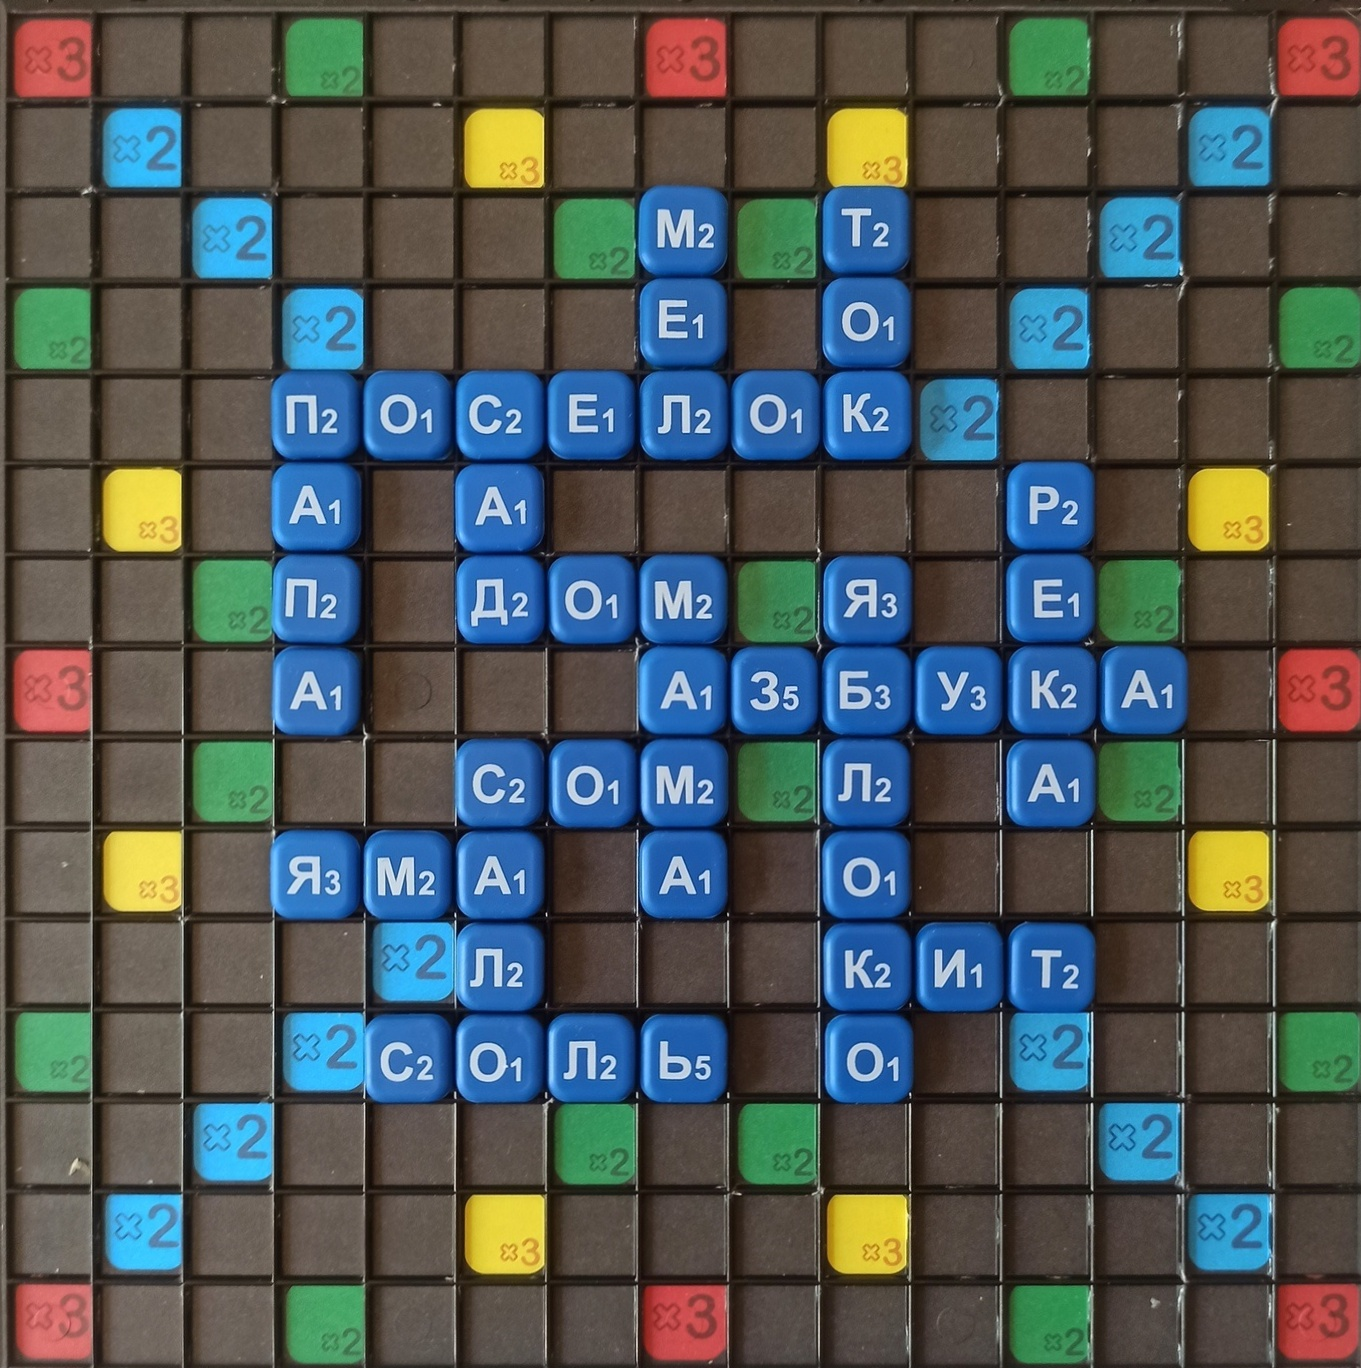
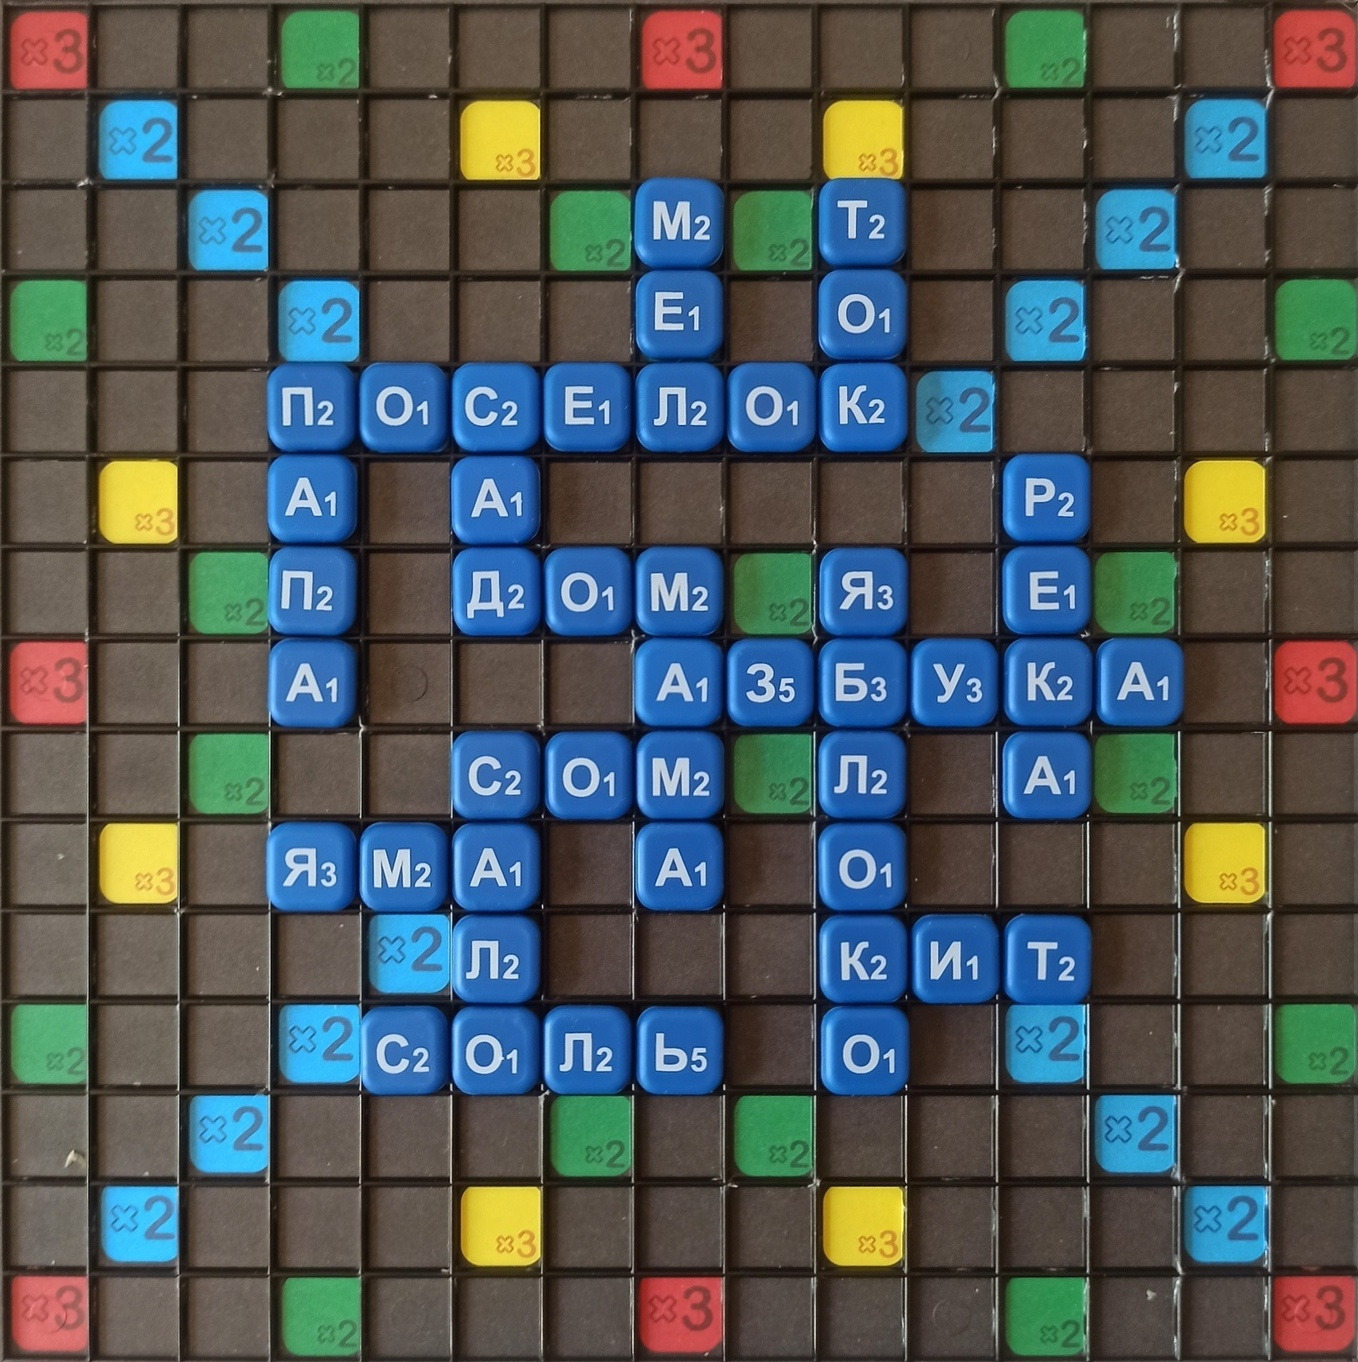
app update

Changed region(s): [[0.0, 0.0, 1.0, 1.0]]

diff --git a/application/app.py b/application/app.py
@@ -26,7 +26,7 @@ class ScrabbleApplication(QWidget):
     _board = None
 
     # размеры окна и виджетов
-    _width = 540  # 450 px
+    _width = 450  # 450 px
     _height = int(_width * 1.7777777)  # 800px
     _chip_size = _width // 9  # размер кнопки с буквой в px
     _row_size = _chip_size * (_width // _chip_size)  # длина линии кнопок в px
@@ -51,7 +51,7 @@ class ScrabbleApplication(QWidget):
     _start_button = None  # кнопка по нажатии запускает весь алгоритм
 
     # labels
-    _chosen_chips_label = None
+    _chosen_chips_labels = None
     _chosen_chips_label_text = 'Выбранные\nфишки:'
 
     _msg_label = None
@@ -70,6 +70,7 @@ class ScrabbleApplication(QWidget):
     _board_img = None  # обрезанное изображение доски
 
     _hint_labels = []  # фишки подсказок, отображаемые на экране
+    _is_hint_showing = False  # получена ли подсказка
 
     def __init__(self):
         """
@@ -171,7 +172,7 @@ class ScrabbleApplication(QWidget):
         label = QLabel(self)
         label.setText(self._chosen_chips_label_text)
         label.setAlignment(Qt.AlignCenter)
-        self._chosen_chips_label = label
+        self._chosen_chips_labels = label
 
         # msg label
         label = QLabel(self)
@@ -241,18 +242,27 @@ class ScrabbleApplication(QWidget):
         Обновление всех виджетов
         """
 
+        # повторная инициализация словарей
+        self.init_dicts()
         # обновляем кнопки
         self.update_buttons()
         # сбрасываем msg
         self._msg_label.setText(self._msg_image_uploaded)
 
-        # сбрасываем все выбранные фишки, удаляя их картинку
+        # сбрасываем все выбранные фишки
         for i in range(7):
             btn = self._chosen_chips_buttons[i]
             btn.setIcon(QIcon())
             self._chosen_chips_buttons[i] = btn
 
-        # удаление подсказки с экрана
+        # очистка подсказки
+        self.clear_hint()
+
+    def clear_hint(self):
+        """
+        Удаление подсказки с экрана
+        """
+
         for label in self._hint_labels:
             label.setPixmap(QPixmap())
 
@@ -303,7 +313,7 @@ class ScrabbleApplication(QWidget):
         index = 0  # суммарная длина всех прошлых labels
         label_size = self._width // 15
         for label in self._hint_labels:
-            label.resize(label_size - 2, label_size - 2)
+            label.resize(label_size - 1, label_size - 1)
             x_pos = index % self._width
             y_pos = index // self._width * label_size
             index += label_size
@@ -322,8 +332,8 @@ class ScrabbleApplication(QWidget):
 
         # прорисовка chosen chips label
         height = self._chip_size
-        self._chosen_chips_label.resize(self._chip_size * 2, self._chip_size)
-        self._chosen_chips_label.move(0, current_height)
+        self._chosen_chips_labels.resize(self._chip_size * 2, self._chip_size)
+        self._chosen_chips_labels.move(0, current_height)
 
         # прорисовка выбранных букв
         for i in range(len(self._chosen_chips_buttons)):
@@ -405,14 +415,13 @@ class ScrabbleApplication(QWidget):
 
     def drop_btn_pressed(self):
         """
-        Сброс выбранных букв
+        Сброс виджетов
         """
 
         # кнопка не работает, если приложение заблокировано
         if not self.status:
             return
 
-        self.init_dicts()
         self.clear_widgets()
 
     def start_btn_pressed(self):
@@ -424,7 +433,9 @@ class ScrabbleApplication(QWidget):
         if not self.status:
             return
 
-        self.clear_widgets()
+        # очистка подсказки, если запуск идет не в первый раз
+        if self._is_hint_showing:
+            self.clear_hint()
 
         if sum(self._chosen_letters.values()) == 0 and self._board_img is None:
             self._msg_label.setText(self._msg_no_img_no_chips_error)
@@ -436,11 +447,11 @@ class ScrabbleApplication(QWidget):
             # запуск алгоритма
             hint, value = self.sa.get_hint(self._board,
                                            Counter(self._chosen_letters))
+            # отрисовка подсказки на экране
             self.draw_hint(hint)
             # выводим стоимость подсказки
             self._msg_label.setText(self._msg_hint_value + str(value))
-
-            # отрисовка подсказки на экране
+            self._is_hint_showing = True
 
     def draw_hint(self, hint):
         """
@@ -452,7 +463,7 @@ class ScrabbleApplication(QWidget):
             for x in range(len(hint[y])):
                 # отрисовываем букву если:
                 # на подсказке эта буква есть
-                # а доске этой буквы еще нет
+                # а на доске этой буквы еще нет
                 if hint[y][x] != '' and self._board[y][x] == '':
                     # поиск индекса буквы в алфавите
                     # отдельная обработка звездочки

diff --git a/scan.py b/scan.py
@@ -75,8 +75,8 @@ def cut_by_external_contour(img: np.ndarray) -> np.ndarray:
 
 # author - Mikhail
 def cut_by_internal_contour(img: np.ndarray,
-                            left=4.0, top=3.8,
-                            right=1.6, bot=1.5) -> np.ndarray:
+                            left=4.3, top=4.4,
+                            right=1.5, bot=1.4) -> np.ndarray:
     """
     Обрезает изображение с разных сторон на определённое значение
     :param img: Изображение на вход
